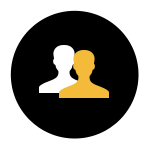
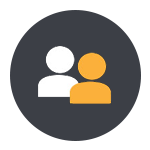
Changes on new style
Changes from Marika’s points

diff --git a/our-capabilites.html b/our-capabilites.html
@@ -82,16 +82,9 @@
     </div><!--container-fluid-->
 
       <!--SECOND SECTION: DOTS DOTS AND MORE DOTS-->
-    <div class="container-fluid top-dots" id="light-orange-dots">
-      <div class="row">
-        <div class="col-lg-12">
-          <!--Here goes the dots-->
-        </div><!--col-lg-12-->
-      </div><!--row-->
-    </div><!--container-fluid-->
       
     <!--THIRD SECTION: Our Capabilities TEXT-->
-    <div class="container-fluid light-orange-gradient text-center">
+    <div class="container-fluid background-yellow text-center">
       <div class="row">
           
         <div class="col-xs-8 col-xs-offset-2" >
@@ -101,7 +94,7 @@
             
             <div class="separation50"></div> 
             
-            <p>It is our practice to assign a Happifying team that operates in your time zone and who are only an email, phone call, or instant message away and able to respond quickly, if not instantly.</p>
+            <h6>It is our practice to assign a Happifying team that operates in your time zone and who are only an email, phone call, or instant message away and able to respond quickly, if not instantly.</h6>
             
             <div class="separation100"></div>
         </div><!--col-lg-12-->
@@ -121,7 +114,7 @@
           <h1>Our Services</h1>
           <div class="separation50"></div>
             
-          <p>We like to think of ourselves as technology facilitators with a range of services whose sole purpose is to keep your organization in front of change.</p>
+          <h6>We like to think of ourselves as technology facilitators with a range of services whose sole purpose is to keep your organization in front of change.</h6>
             
         <div class="separation50"></div>
         </div><!--col-lg-12--> 
@@ -199,7 +192,7 @@
             <!--The actual TEXT-->  
             <div class="col-xs-10 col-xs-offset-1 text-center">
               <div class="separation100"></div>
-            <p>Collectively, we speak every tech language need to create today’s technology; from front end and back end, to database, super user friendly GUIs and our refined Quality Assurance approach.</p>
+            <h6>Collectively, we speak every tech language need to create today’s technology; from front end and back end, to database, super user friendly GUIs and our refined Quality Assurance approach.</h6>
               <div class="separation50"></div>
             </div><!--col-xs-12-->
            
@@ -209,7 +202,7 @@
     </div><!--container-fluid-->
 
     <!--FIFTH SECTION: TECHNOLOGIES LOGOS SLIDER-->
-    <div class="container-fluid yellow-fill">
+    <div class="container-fluid background-yellow">
       <!--SLIDER-->
       <div class="row">
         
@@ -257,12 +250,12 @@
             
           <div class="separation50"></div>     
             
-          <p class=" text-white">Much like following a score and a conductor, we are skilled at picking up your tools and your management approach, providing professional harmony with your IT team. Adapting is in our DNA.</p> 
+          <h6 class=" text-white">Much like following a score and a conductor, we are skilled at picking up your tools and your management approach, providing professional harmony with your IT team. Adapting is in our DNA.</h6> 
             
           <div class="separation200"></div>  
           <div class="separation200"></div>  
             
-          <p>Project Management is at the heart of Advancio’s seamless integration into our client’s IT development cycles. We are diligent collaborators with our client’s project managers, and believe that adapting to their systems is essential to our fulfillment. Most of our clients have their own management tools but some of our smaller clients do not have tools in place to accommodate more IT workers, in which case we are happy to preview our own tools and best practices.</p> 
+          <h6>Project Management is at the heart of Advancio’s seamless integration into our client’s IT development cycles. We are diligent collaborators with our client’s project managers, and believe that adapting to their systems is essential to our fulfillment. Most of our clients have their own management tools but some of our smaller clients do not have tools in place to accommodate more IT workers, in which case we are happy to preview our own tools and best practices.</h6> 
             
           <div class="separation100"></div>    
         </div><!--col-lg-12--> 
@@ -272,7 +265,7 @@
     </div><!--container-fluid--> 
 
     <!--TEXT, IMAGE BELOW AND DOTS-->  
-    <div class="container-fluid teal-fill text-white">
+    <div class="container-fluid background-teal text-white">
         
       <!--TEXT AND DOTS-->
       <div class="row text-center">
@@ -361,25 +354,20 @@
       </div><!--row-->     
         </div><!--col-md-12-->
       </div><!--row-->
-      <!--DOTS-->  
-      <div class="row">
-        <div class="col-md-12 bottom-dots" id="teal-dots">
-          </div><!--col-md-12-->
-      </div><!--row-->    
+      <!--DOTS-->     
     </div><!--container-fluid--> 
       
     <!--EIGHT SECTION: SOFTWARE SOLUTIONS CYCLE ERASED... THANK GOD-->
       
       
     <!--NINTH SECTION: OUR TEAM VALUES-->
-    <div class="container-fluid yellow-fill text-center page block4" data-hint-text="Team Values">
+    <div class="container-fluid background-yellow text-center page block4" data-hint-text="Team Values">
       <!--TITLE-->
       <div class="row">
         
-        <div class="separation100"></div> 
+        <div class="separation50"></div> 
           
         <div class="col-lg-12" >
-            <div class="separation100"></div>
             <h1>OUR TEAM VALUES</h1>
         </div><!--col-lg-12-->
           
@@ -422,8 +410,6 @@
     </div><!--container-fluid-->
     
     <!--YELLOW DOTS, DOTS AND MORE DOTS-->
-    <!-- Bro, there were no dots in the psd... ._.-->
-    <div class="bottom-dots" id="yellow-dots"></div>
       
     <!--SUNFLOWER FIELD-->
     <div class="container-fluid">
@@ -431,8 +417,8 @@
       <div class="row">
           
         <div class="col-lg-12 padding-15 text-center" >
-            <div class="separation200"></div>
-            <p>We believe in all things <span class="bold">GOOD</span>;  in our inherent <span class="bold">GOOD</span> nature, in the <span class="bold">GOOD</span> work we strive to produce, in the <span class="bold">GOOD</span> mood we express and in the social <span class="bold">GOOD</span> we do for others. we are good.IT and this is what our <span class="bold">GOOD</span> value looks like in action:</p>
+            <div class="separation50"></div>
+            <h6>We believe in all things <span class="bold">GOOD</span>;  in our inherent <span class="bold">GOOD</span> nature, in the <span class="bold">GOOD</span> work we strive to produce, in the <span class="bold">GOOD</span> mood we express and in the social <span class="bold">GOOD</span> we do for others. we are good.IT and this is what our <span class="bold">GOOD</span> value looks like in action:</h6>
             <div class="separation10"></div>
         </div><!--col-lg-12-->
         
@@ -630,7 +616,7 @@
         <div class="separation50"></div> 
           
         <div class="col-xs-8 col-xs-offset-2 text-center">
-            <p>All of our clients have said we lead with passion and a can-do work ethic. And of course,  we’re a happy group. Yes, we have happyfied our own IT. </p>
+            <h6>All of our clients have said we lead with passion and a can-do work ethic. And of course,  we’re a happy group. Yes, we have happyfied our own IT. </h6>
             
             <div class="separation20"></div> 
             

diff --git a/css/style.css b/css/style.css
@@ -52,7 +52,7 @@ html,body {
     font-size: 16px;
     font-family: 'Open Sans', sans-serif;
     font-weight: 400;
-    color:#000;
+    color:#3c3f46;
     overflow-x: hidden;
 }
 
@@ -74,11 +74,11 @@ p  { font-size: 0.938em; }
 }
 
 .text-yellow {
-    color:#f1c40d;
+    color:#f2c40a;
 }
 
 .text-red {
-    color:#c71f26;
+    color:#c61f27;
 }
 
 .text-serif {
@@ -223,11 +223,11 @@ textarea {
 
 /* ------------- Solid Background-colors */
 .background-red {
-    background-color:#c71f26;
+    background-color:#c61f27;
 }
 
 .background-yellow {
-    background-color:#f1c40d;
+    background-color:#f2c40a;
 }
 
 .background-black {
@@ -235,7 +235,7 @@ textarea {
 }
 
 .background-teal {
-    background-color: #0cbcc3;
+    background-color: #0DD8D4;
 }
 
 .background-white {
@@ -269,12 +269,6 @@ textarea {
     background-image: url(img/red-bells.jpg);
     background-size:cover;
     background-position: center top;
-}
-
-#light-orange-dots {
-    background-image: url(img/orange-dots.png);
-    background-repeat: repeat-x;
-    background-position: bottom;
 }
 
 #dark-orange-dots {
@@ -313,18 +307,6 @@ textarea {
     background-image: url(img/timeline-bg.jpg);
     background-size: cover;
     background-position: top center;
-}
-
-.top-dots {
-    display: block;
-    margin-top: -130px;
-    height:130px;
-}
-
-.bottom-dots {
-    display: block;
-    margin-bottom: -130px;
-    height:130px;
 }
 
 /* ------------ Img backgrounds (GoodIT) */
@@ -404,7 +386,7 @@ textarea {
 .engagement-model-btn {
     display:block;
     border: solid 1px #fff;
-    color:#000;
+    color:#3c3f46;
     font-family: 'Open Sans', sans-serif;
     font-weight:600;
     padding-top:10px;
@@ -416,9 +398,9 @@ textarea {
 .engagement-model-btn:visited,
 .engagement-model-btn-selected {
     display:block;
-    border: solid 1px #000;
+    border: solid 1px #3c3f46;
     color:#fff !important;
-    background-color: #000;
+    background-color: #3c3f46;
     font-family: 'Open Sans', sans-serif;
     font-weight:600;
     padding-top:10px;
@@ -437,7 +419,7 @@ textarea {
 
 /*SEVENTH SECTION: Outsourcing button style*/
 .outsourcing-btn {
-    color:#000;
+    color:#3c3f46;
     font-family: 'Open Sans', sans-serif;
     font-weight:600;
     display: block;
@@ -449,7 +431,7 @@ textarea {
 .outsourcing-btn:active,
 .outsourcing-btn:visited {
     text-decoration: underline;
-    color:#000;
+    color:#3c3f46;
 }
 
 .out-selected {
@@ -480,7 +462,7 @@ textarea {
 
 /*EIGTH SECTION: Style for the "Project" and "Result" Buttons*/ 
 .case-studies-extra-info {
-    color:#0cbcc3 !important;
+    color:#0DD8D4 !important;
     text-decoration: none !important;
     background-image: url(img/plus-unselected.png);
     background-size: contain;
@@ -494,7 +476,7 @@ textarea {
 .case-studies-extra-info:visited,
 .case-studies-extra-info:active,
 .case-studies-extra-info-selected {
-    color:#0cbcc3 !important;
+    color:#0DD8D4 !important;
     text-decoration: none !important;
     background-image: url(img/plus-selected.png);
     background-size: contain;
@@ -508,7 +490,7 @@ textarea {
     height: 0;
     border-style: solid;
     border-width: 0 25px 25px 25px;
-    border-color: transparent transparent #0cbcc3 transparent;
+    border-color: transparent transparent #0DD8D4 transparent;
     display: block;
     margin: auto;
 }
@@ -586,14 +568,6 @@ textarea {
 
 .percentages {
     margin-top:-120px;
-}
-
-.yellow-fill{
-    background-color:#E4A022;
-}
-
-.teal-fill{
-    background-color:#0cabb1;
 }
 
 .sunflowers-bg {

diff --git a/index.html b/index.html
@@ -133,7 +133,7 @@
     </div><!--container-fluid-->
 
     <!-- THIRD SECTION: ADVANCIO TEXT OVER RED GRADIENT-->
-    <div class="container-fluid red-gradient-1">
+    <div class="container-fluid background-red">
       <div class="row">
         <div class="col-xs-2"></div>
           
@@ -159,20 +159,18 @@
           <div class="separation30"></div> 
             
           <h1 class="text-red">We can Happify your. <span class="text-yellow bold">IT</span></h1>
-          <h5>with targeted support where your team needs it most.</h5>
-            
-          <div class="separation100"></div>     
+          <h5 class="text-serif">with targeted support where your team needs it most.</h5>     
         
         </div><!--col-lg-12-->
       </div><!--row-->
     </div><!-- container-fluid-->
     
     <!--dots over the img on top-->
-    <div class="top-dots" id="light-orange-dots"></div>      
+    <img src="img/yellow-angle-right.png" style="width:100%;">      
 
     <!--FIFTH SECTION: FLEXIBLE OUTSOURCING-->
     <div class="container-fluid">
-      <div class="row text-center light-orange-gradient">
+      <div class="row text-center background-yellow">
           
         <div class="separation30"></div>
           
@@ -342,13 +340,7 @@
     <!-- SIXTH SECTION: OUR APPROACH-->
     <div class="container-fluid page block3 no-padding" id="approach-background" data-hint-text="Our Approach">
         
-      <div class="separation200"></div>
-      
-      <div class="white-line">
-        <img src="img/single-dot.png" alt="single dot" style="margin-top:-15px;margin-left:15%">
-      </div> 
-        
-      <div class="separation20"></div>     
+      <div class="separation200"></div>    
         
       <div class="row">
         <div class="col-lg-12 text-center">
@@ -461,10 +453,9 @@
     </div><!--container-fluid-->
     
     <!--dots over the img on top-->
-    <div class="top-dots" id="dark-orange-dots"></div> 
 
     <!-- SEVENTH SECTION: Engagement Models-->
-    <div class="container-fluid dark-orange-to-red-gradient page block4" data-hint-text="Engagement Models">
+    <div class="container-fluid background-red page block4" data-hint-text="Engagement Models">
         
       <div class="separation50"></div>    
         
